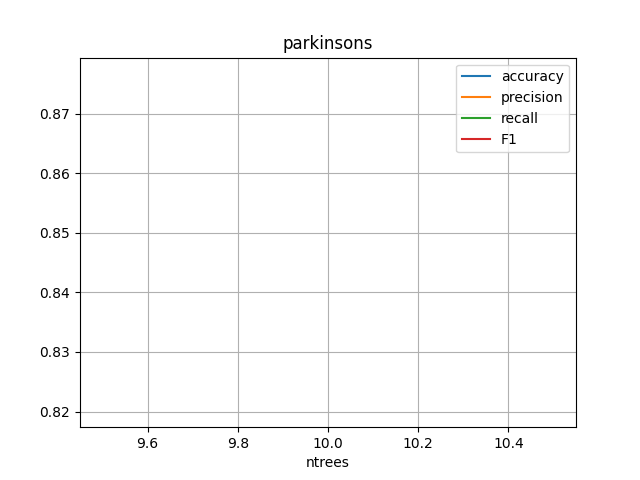
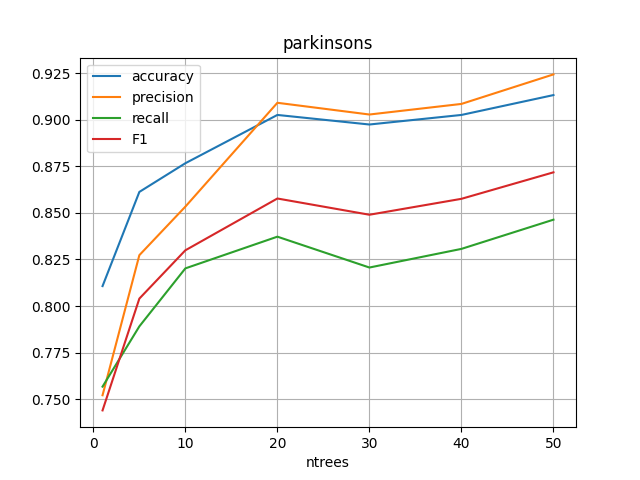
ran parkinsons on varying ntrees

diff --git a/william/parkinson_results.md b/william/parkinson_results.md
@@ -67,21 +67,17 @@ stats_test:
 
 ## Random Forest
 
-### `random_forest.py -p ../dataset/parkinsons.csv -ntrees 10 -bst true --random_state 42`
+### `random_forest.py -p ../dataset/parkinsons.csv -bst true --random_state 42`
 
 ```
-ntrees 10 Performances:
-[[0.875      0.86796537 0.78333333 0.81325864]
- [0.95       0.93333333 0.93333333 0.93333333]
- [0.79487179 0.73103448 0.73103448 0.73103448]
- [0.92105263 0.953125   0.83333333 0.87540984]
- [0.84210526 0.78114478 0.81992337 0.79642857]]
-
-Average Performance:
-[0.87660594 0.85332059 0.82019157 0.82989297]
-
-Random Forest Performance:
+Random Forest Performance: 
     accuracy  precision    recall        F1
+1   0.810688   0.752122  0.756743  0.743992
+5   0.861215   0.827278  0.789080  0.803977
 10  0.876606   0.853321  0.820192  0.829893
+20  0.902517   0.909036  0.837203  0.857684
+30  0.897389   0.902747  0.820651  0.848971
+40  0.902517   0.908428  0.830651  0.857514
+50  0.913171   0.924270  0.846322  0.871725
 ```
 
